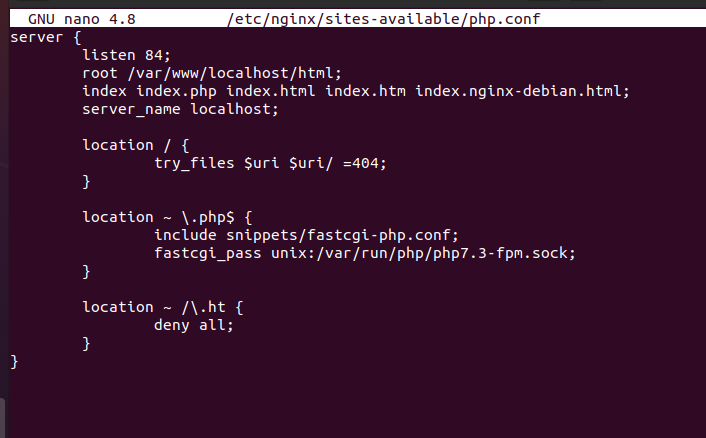
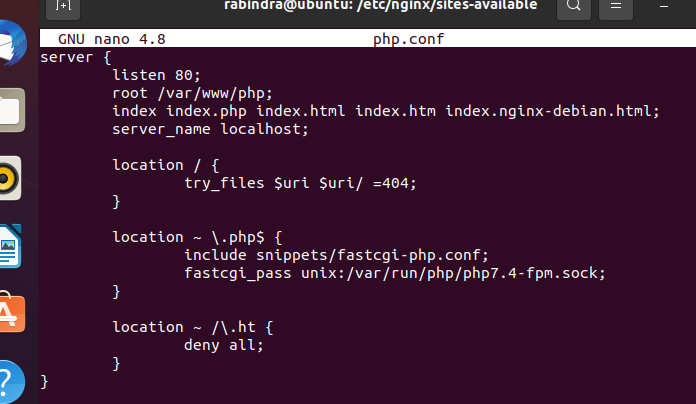
README

diff --git a/2/README.md b/2/README.md
@@ -6,9 +6,9 @@ some header security are:-<br/>
 1. Cross-Site Scripting Protection (X-XSS)<br/>
 ->X-XSS header helps protect websites against script injection attacks. When an attacker injects malicious JavaScript code into an HTTP request for accessing confidential information such as session cookies, at that time HTTP X-XSS-Protection header can stop the browsers from loading suce web pages, whenever any detect is reflected cross-site scripting (XSS) attacks. XSS is a very common and effective attack.<br/>
    <pre>X-XSS-Protection: 0 <br/>
-  X-XSS-Protection: 1 <br/>
-  X-XSS-Protection: 1; mode=block <br/>
-  X-XSS-Protection: 1; report=<reporting-uri></pre>
+   X-XSS-Protection: 1 <br/>
+   X-XSS-Protection: 1; mode=block <br/>
+   X-XSS-Protection: 1; report=<reporting-uri></pre>
   <br/>
 
 2. Website IFrame Protection<br/>

diff --git a/6/README.md b/6/README.md
@@ -10,7 +10,7 @@ Create the directory for localhost<br/>
 <pre>sudo mkdir -p /var/www/php</pre> <br/>
 create a sample info.php page<br/>
 <pre>nano /var/www/php/info.php</pre> <br/>
-Add message in html file<br/>
+Add message in php file<br/>
 <pre><?php<br/>
 phpinfo();<br/>
 ?><br/></pre>
@@ -40,7 +40,7 @@ Add below line in php.conf file<br/>
         }<br/>
 }<br/></pre>
 
-   ![php conf](https://user-images.githubusercontent.com/53372486/142132083-60901bed-5e5b-4d95-9676-8969391d4f62.png) <br/>
+   ![php](https://user-images.githubusercontent.com/53372486/142134963-004b40df-9b69-4c24-ae4c-f0dcbb16708e.png) <br/>
 
  Enable the file by creating a link which Nginx reads from during startup<br/>
 <pre>sudo ln -rs /etc/nginx/sites-available/php.conf /etc/nginx/sites-enabled/</pre> <br/>
